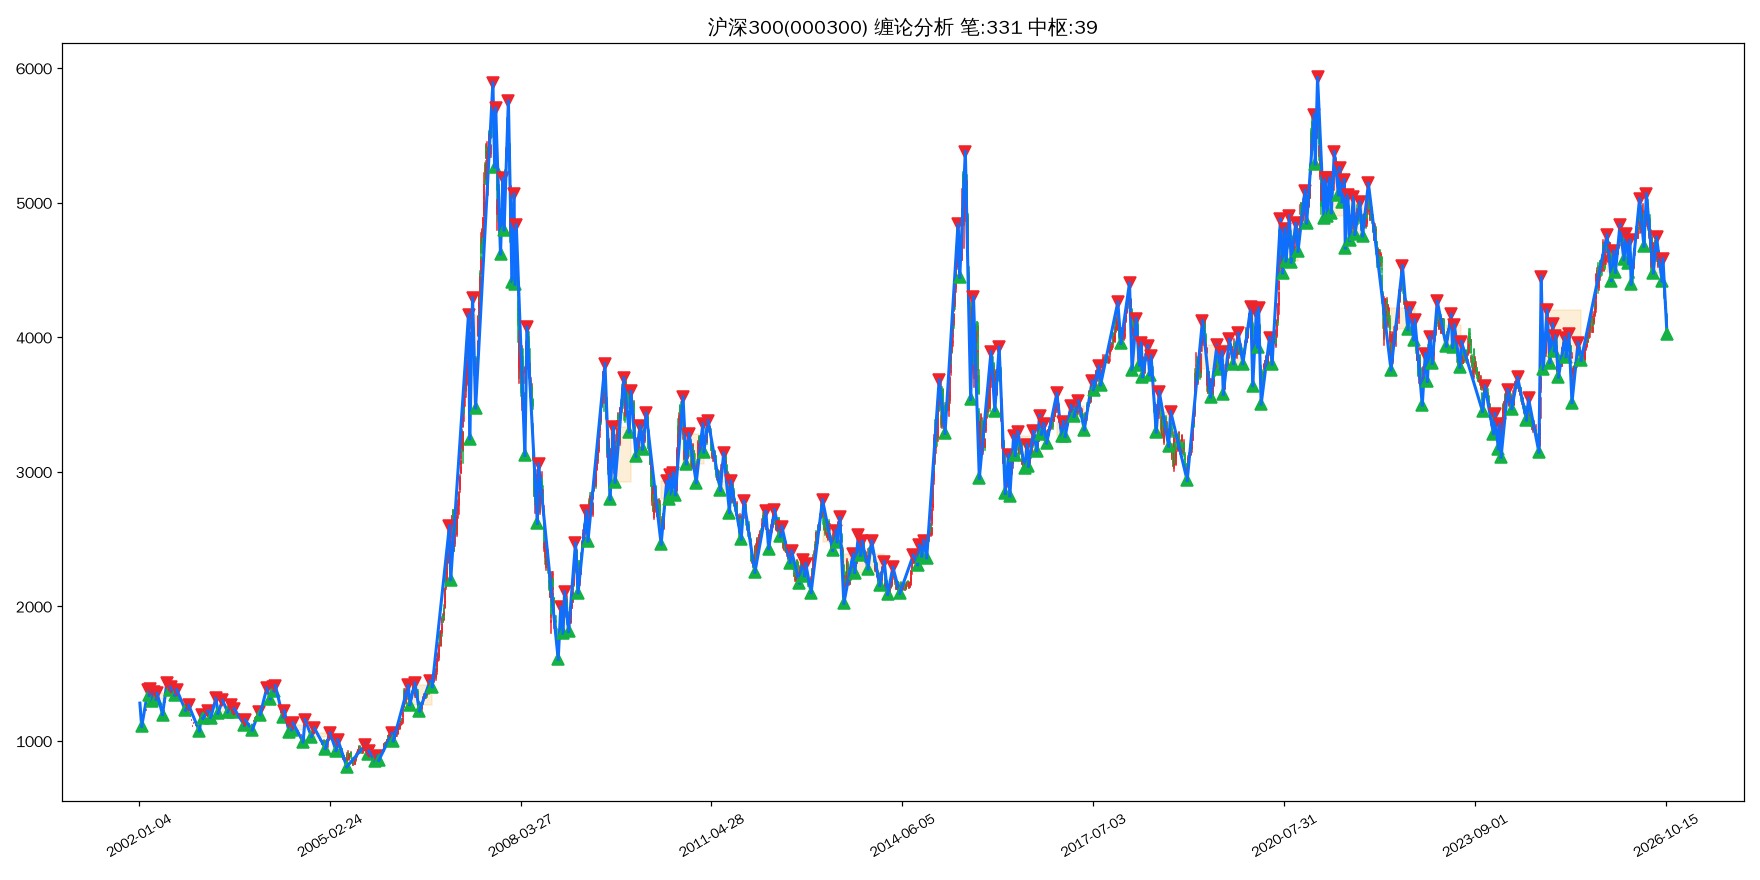
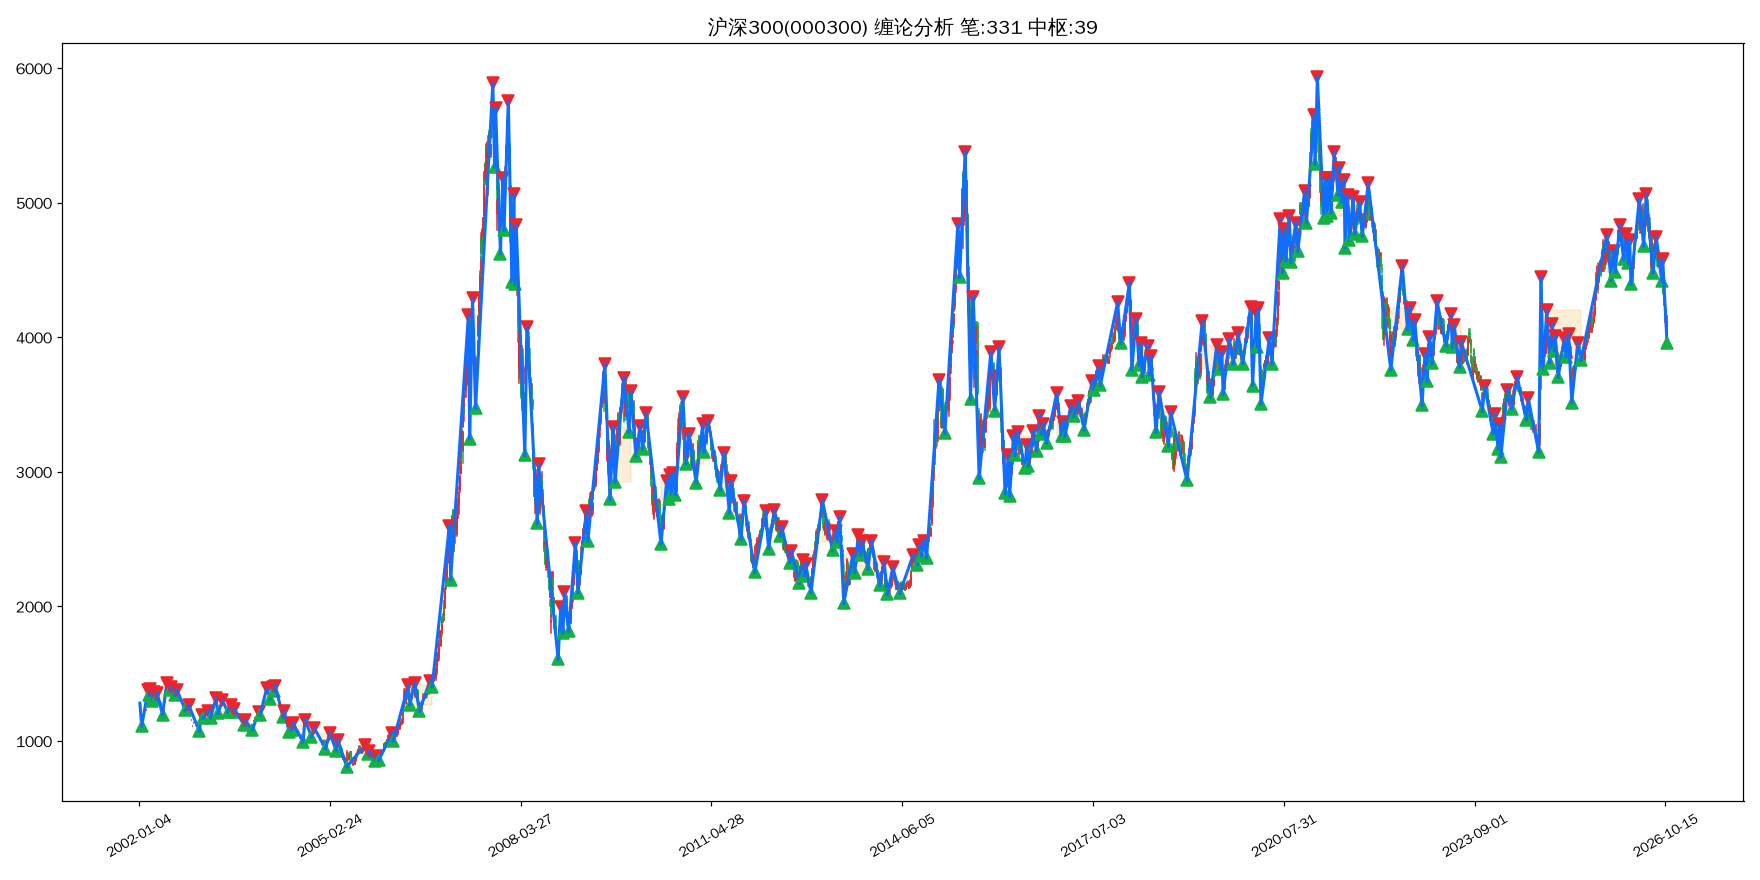
自动更新缠论日报与配图

diff --git a/chan_report.md b/chan_report.md
@@ -119,28 +119,28 @@
 ![深证指数缠论图谱](chan_img/399001_深证指数.png)
 
 ## 创业板指（399006）
-- 最新收盘价：2576.901
-- 有效K线数量：3979
+- 最新收盘价：2684.097
+- 有效K线数量：3980
 - 笔总数：223 | 中枢总数：28
-- 最新一笔走势：下跌 | 2026-09-22~2026-10-22 | 3472.47 → 2576.90
+- 最新一笔走势：下跌 | 2026-09-22~2026-10-23 | 3472.47 → 2494.22
 - 缠论背驰判断：**无背驰**
-- 三类买卖点识别：**卖1p类@2010-12-20(1212.34)、卖2类@2011-01-06(1134.79)、卖2s类@2011-02-23(1114.05)、卖2s类@2011-03-11(1101.76)、买1类@2011-06-21(795.61)、买2类@2011-07-26(892.54)、买1类@2014-05-16(1226.47)、买2类@2014-07-24(1271.88)、买3b类@2014-10-27(1492.01)、买1类@2015-09-02(1855.03)、买2类@2015-11-03(2429.27)、卖1p类@2019-04-08(1739.65)、卖2类@2019-05-16(1533.67)、卖1类@2021-07-22(3544.44)、卖2类@2021-08-05(3532.50)、卖2s类@2021-11-30(3495.59)、卖2s类@2022-01-18(3144.33)、卖3a类@2022-03-01(2885.79)、卖1类@2023-01-30(2613.89)、卖2类@2023-04-11(2439.40)、卖2s类@2023-05-16(2294.19)、买1类@2023-06-08(2123.96)、买2类@2023-07-24(2146.93)、买1类@2024-02-05(1562.61)、买2类@2024-04-22(1750.46)、买2s类@2024-07-09(1652.12)、买2s类@2024-08-29(1541.40)、卖1p类@2026-01-13(3321.89)、卖2类@2026-02-25(3354.82)、买1类@2026-10-22(2576.90)**
+- 三类买卖点识别：**卖1p类@2010-12-20(1212.34)、卖2类@2011-01-06(1134.79)、卖2s类@2011-02-23(1114.05)、卖2s类@2011-03-11(1101.76)、买1类@2011-06-21(795.61)、买2类@2011-07-26(892.54)、买1类@2014-05-16(1226.47)、买2类@2014-07-24(1271.88)、买3b类@2014-10-27(1492.01)、买1类@2015-09-02(1855.03)、买2类@2015-11-03(2429.27)、卖1p类@2019-04-08(1739.65)、卖2类@2019-05-16(1533.67)、卖1类@2021-07-22(3544.44)、卖2类@2021-08-05(3532.50)、卖2s类@2021-11-30(3495.59)、卖2s类@2022-01-18(3144.33)、卖3a类@2022-03-01(2885.79)、卖1类@2023-01-30(2613.89)、卖2类@2023-04-11(2439.40)、卖2s类@2023-05-16(2294.19)、买1类@2023-06-08(2123.96)、买2类@2023-07-24(2146.93)、买1类@2024-02-05(1562.61)、买2类@2024-04-22(1750.46)、买2s类@2024-07-09(1652.12)、买2s类@2024-08-29(1541.40)、卖1p类@2026-01-13(3321.89)、卖2类@2026-02-25(3354.82)、买1类@2026-10-23(2684.10)**
 ![创业板指缠论图谱](chan_img/399006_创业板指.png)
 
 ## 沪深300（000300）
-- 最新收盘价：4036.297
-- 有效K线数量：6014
+- 最新收盘价：4105.329
+- 有效K线数量：6015
 - 笔总数：331 | 中枢总数：39
-- 最新一笔走势：下跌 | 2026-09-22~2026-10-22 | 4583.38 → 4022.87
+- 最新一笔走势：下跌 | 2026-09-22~2026-10-23 | 4583.38 → 3958.14
 - 缠论背驰判断：**无背驰**
-- 三类买卖点识别：**买1p类@2003-11-18(1081.00)、买2类@2003-12-31(1194.74)、买3b类@2004-03-09(1314.17)、卖1类@2004-04-06(1410.43)、卖2,3b类@2004-06-01(1224.11)、买1p类@2005-06-06(839.00)、买2类@2005-09-28(903.72)、买2s类@2005-11-16(863.12)、买1p类@2008-11-04(1627.76)、买2类@2008-12-01(1864.20)、买2s类@2008-12-31(1817.72)、买3a类@2009-03-03(2142.15)、卖1类@2016-08-16(3378.24)、卖2类@2016-09-07(3340.82)、买1类@2019-01-04(3035.87)、买2,3b类@2019-05-27(3637.20)、买2s类@2019-07-22(3781.68)、买2s类@2019-08-06(3636.33)、买2s类@2019-10-09(3843.24)、买2s类@2019-11-29(3828.67)、卖1类@2020-01-14(4189.89)、卖2类@2020-02-21(4149.49)、卖2s类@2020-03-05(4206.73)、卖1p类@2021-02-18(5768.38)、卖2类@2021-04-06(5140.34)、卖2s类@2021-04-26(5077.24)、卖2s类@2021-05-27(5338.23)、卖2s类@2021-06-28(5251.76)、卖2s类@2021-07-22(5151.75)、买1类@2021-07-28(4760.48)、买2类@2021-08-20(4769.27)、买2s类@2021-09-22(4821.77)、买2s类@2021-11-10(4821.19)、买1类@2022-10-31(3508.70)、买2类@2022-11-28(3733.24)、买2s类@2022-12-23(3828.22)、卖1类@2023-01-30(4201.35)、卖2类@2023-04-18(4162.03)、卖2s类@2023-05-09(4027.88)、卖2s类@2023-06-16(3963.35)、卖3a类@2023-11-06(3632.61)、买1类@2024-02-02(3179.63)、买2,3b类@2024-04-12(3475.84)、卖1类@2026-01-13(4761.03)、卖2类@2026-02-25(4735.89)、卖2s类@2026-03-17(4637.44)、买1类@2026-10-22(4036.30)**
+- 三类买卖点识别：**买1p类@2003-11-18(1081.00)、买2类@2003-12-31(1194.74)、买3b类@2004-03-09(1314.17)、卖1类@2004-04-06(1410.43)、卖2,3b类@2004-06-01(1224.11)、买1p类@2005-06-06(839.00)、买2类@2005-09-28(903.72)、买2s类@2005-11-16(863.12)、买1p类@2008-11-04(1627.76)、买2类@2008-12-01(1864.20)、买2s类@2008-12-31(1817.72)、买3a类@2009-03-03(2142.15)、卖1类@2016-08-16(3378.24)、卖2类@2016-09-07(3340.82)、买1类@2019-01-04(3035.87)、买2,3b类@2019-05-27(3637.20)、买2s类@2019-07-22(3781.68)、买2s类@2019-08-06(3636.33)、买2s类@2019-10-09(3843.24)、买2s类@2019-11-29(3828.67)、卖1类@2020-01-14(4189.89)、卖2类@2020-02-21(4149.49)、卖2s类@2020-03-05(4206.73)、卖1p类@2021-02-18(5768.38)、卖2类@2021-04-06(5140.34)、卖2s类@2021-04-26(5077.24)、卖2s类@2021-05-27(5338.23)、卖2s类@2021-06-28(5251.76)、卖2s类@2021-07-22(5151.75)、买1类@2021-07-28(4760.48)、买2类@2021-08-20(4769.27)、买2s类@2021-09-22(4821.77)、买2s类@2021-11-10(4821.19)、买1类@2022-10-31(3508.70)、买2类@2022-11-28(3733.24)、买2s类@2022-12-23(3828.22)、卖1类@2023-01-30(4201.35)、卖2类@2023-04-18(4162.03)、卖2s类@2023-05-09(4027.88)、卖2s类@2023-06-16(3963.35)、卖3a类@2023-11-06(3632.61)、买1类@2024-02-02(3179.63)、买2,3b类@2024-04-12(3475.84)、卖1类@2026-01-13(4761.03)、卖2类@2026-02-25(4735.89)、卖2s类@2026-03-17(4637.44)、买1类@2026-10-23(4105.33)**
 ![沪深300缠论图谱](chan_img/000300_沪深300.png)
 
 ## 上证50（000016）
-- 最新收盘价：2724.807
-- 有效K线数量：5536
+- 最新收盘价：2757.683
+- 有效K线数量：5537
 - 笔总数：298 | 中枢总数：31
-- 最新一笔走势：下跌 | 2026-07-10~2026-10-22 | 3026.43 → 2709.87
+- 最新一笔走势：下跌 | 2026-07-10~2026-10-23 | 3026.43 → 2676.64
 - 缠论背驰判断：**无背驰**
-- 三类买卖点识别：**买1p类@2005-06-06(717.21)、买2类@2005-08-31(816.75)、买2s类@2005-09-28(783.00)、卖1p类@2014-09-09(1645.11)、卖2类@2014-10-09(1634.04)、买1p类@2016-02-29(1944.61)、买2类@2016-03-29(2106.86)、买2s类@2016-05-18(2078.76)、买2s类@2016-06-15(2106.63)、买2s类@2016-08-04(2143.84)、买2s类@2016-09-27(2176.45)、卖1类@2016-11-29(2441.58)、卖2类@2017-01-26(2364.02)、卖2s类@2017-02-21(2396.88)、卖2s类@2017-04-06(2390.39)、卖2s类@2017-04-26(2344.51)、买1类@2018-07-03(2388.98)、买2类@2018-08-16(2405.16)、买2s类@2018-09-12(2381.39)、买3a类@2019-03-11(2708.60)、卖1类@2019-04-17(3017.42)、卖2类@2019-07-01(3002.94)、卖2s类@2019-07-30(2944.03)、卖1p类@2021-02-18(4014.32)、卖2类@2021-04-06(3594.71)、卖2s类@2021-04-26(3467.66)、卖2s类@2021-05-27(3664.94)、卖2s类@2021-06-25(3535.02)、卖3a类@2021-08-11(3262.57)、买1p类@2021-08-20(3072.76)、买2类@2021-09-22(3122.34)、买2s类@2021-11-10(3170.41)、买1类@2022-10-31(2295.92)、买2类@2023-03-20(2616.75)、买2s类@2023-04-25(2619.23)、买2s类@2023-05-31(2493.35)、卖1类@2024-05-20(2532.82)、卖2类@2024-07-19(2456.79)、买1类@2026-10-22(2724.81)**
+- 三类买卖点识别：**买1p类@2005-06-06(717.21)、买2类@2005-08-31(816.75)、买2s类@2005-09-28(783.00)、卖1p类@2014-09-09(1645.11)、卖2类@2014-10-09(1634.04)、买1p类@2016-02-29(1944.61)、买2类@2016-03-29(2106.86)、买2s类@2016-05-18(2078.76)、买2s类@2016-06-15(2106.63)、买2s类@2016-08-04(2143.84)、买2s类@2016-09-27(2176.45)、卖1类@2016-11-29(2441.58)、卖2类@2017-01-26(2364.02)、卖2s类@2017-02-21(2396.88)、卖2s类@2017-04-06(2390.39)、卖2s类@2017-04-26(2344.51)、买1类@2018-07-03(2388.98)、买2类@2018-08-16(2405.16)、买2s类@2018-09-12(2381.39)、买3a类@2019-03-11(2708.60)、卖1类@2019-04-17(3017.42)、卖2类@2019-07-01(3002.94)、卖2s类@2019-07-30(2944.03)、卖1p类@2021-02-18(4014.32)、卖2类@2021-04-06(3594.71)、卖2s类@2021-04-26(3467.66)、卖2s类@2021-05-27(3664.94)、卖2s类@2021-06-25(3535.02)、卖3a类@2021-08-11(3262.57)、买1p类@2021-08-20(3072.76)、买2类@2021-09-22(3122.34)、买2s类@2021-11-10(3170.41)、买1类@2022-10-31(2295.92)、买2类@2023-03-20(2616.75)、买2s类@2023-04-25(2619.23)、买2s类@2023-05-31(2493.35)、卖1类@2024-05-20(2532.82)、卖2类@2024-07-19(2456.79)、买1类@2026-10-23(2757.68)**
 ![上证50缠论图谱](chan_img/000016_上证50.png)
